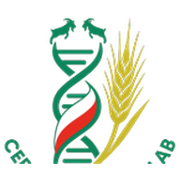
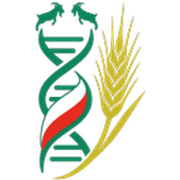
Split CPL vs other publications, text-free header emblem, team tweaks
- Publications: CPL (>=2 team authors) and Other (1 team author)
- Header/footer use the logo emblem with the lettering removed
- English unit name: Cereal Phenomics Team
- Add RG/Scholar profiles; role labels moved below profile links

Claude-Session: https://claude.ai/code/session_01BpixLG9RwF8mf4iQRuxkXw

diff --git a/assets/css/main.css b/assets/css/main.css
@@ -82,7 +82,7 @@ address { font-style: normal; }
 .site-header { background: var(--white); border-bottom: 1px solid var(--line); position: sticky; top: 0; z-index: 50; }
 .site-header__inner { display: flex; align-items: center; justify-content: space-between; gap: 24px; min-height: 80px; }
 .brand { display: flex; align-items: center; gap: 12px; text-decoration: none; min-width: 0; }
-.brand__logo { width: 58px; height: auto; flex-shrink: 0; }
+.brand__logo { width: auto; height: 52px; flex-shrink: 0; }
 .brand__text { display: flex; flex-direction: column; line-height: 1.2; min-width: 0; }
 .brand__name { font-family: var(--font-head); font-weight: 700; font-size: 1.3rem; color: var(--green-900); }
 .brand__sub { font-size: .78rem; color: var(--ink-soft); }
@@ -105,7 +105,7 @@ address { font-style: normal; }
 }
 @media (max-width: 520px) {
   .brand__sub { display: none; }
-  .brand__logo { width: 46px; }
+  .brand__logo { height: 44px; }
   .brand__name { font-size: 1.1rem; }
   .topbar__inst { font-size: .75rem; }
 }
@@ -188,7 +188,7 @@ address { font-style: normal; }
 .person__initials { font-family: var(--font-head); font-size: 3rem; font-weight: 600; color: var(--green-700); opacity: .75; }
 .team-grid--compact .person__initials { font-size: 2.2rem; }
 .person__body { padding: 16px 18px 18px; }
-.person__role { font-size: .72rem; font-weight: 700; letter-spacing: .1em; text-transform: uppercase; color: var(--gold-600); margin: 0 0 4px; }
+.person__role { font-size: .72rem; font-weight: 700; letter-spacing: .1em; text-transform: uppercase; color: var(--gold-600); margin: 12px 0 0; }
 .person__name { font-size: 1.12rem; margin: 0; }
 .team-grid--compact .person__name { font-size: 1rem; }
 .person__degree { display: block; font-family: var(--font-body); font-size: .8rem; font-weight: 500; color: var(--ink-soft); margin-bottom: 2px; }
@@ -215,6 +215,9 @@ address { font-style: normal; }
 /* publications */
 .pubs__year { display: grid; grid-template-columns: 110px 1fr; gap: 24px; padding: 28px 0; border-top: 1px solid var(--line); }
 .pubs__year:first-child { border-top: 0; padding-top: 0; }
+.pubs__group { margin-bottom: .2em; }
+.pubs__group--other { margin-top: 64px; padding-top: 48px; border-top: 1px solid var(--line); }
+.pubs__note { color: var(--ink-soft); margin-bottom: 28px; }
 .pubs__y { font-size: 1.8rem; color: var(--gold-600); margin: 0; }
 .pubs .pubs__year:only-child { display: block; }
 .pub-list { list-style: none; display: grid; gap: 22px; }
@@ -292,7 +295,7 @@ address { font-style: normal; }
 .footer-brand strong { color: #fff; font-family: var(--font-head); font-size: 1.2rem; }
 .footer-brand p { margin: 6px 0 0; }
 .footer-brand__badge { background: #fff; border-radius: 12px; padding: 8px 10px; flex-shrink: 0; }
-.footer-brand__badge img { width: 58px; }
+.footer-brand__badge img { width: auto; height: 52px; }
 .footer-h { font-family: var(--font-body); font-size: .75rem; letter-spacing: .12em; text-transform: uppercase; color: var(--gold-300); margin-bottom: 14px; }
 .footer-links { list-style: none; display: grid; gap: 6px; }
 .footer-links a { text-decoration: none; }

diff --git a/_includes/home.html b/_includes/home.html
@@ -38,7 +38,7 @@
     </div>
     <ul class="stats">
       <li><strong>{{ n_projects }}</strong><span>{{ t.stats_projects }}</span></li>
-      <li>{%- assign npubs = site.data.publications.size %}{% if site.data.publications_auto and site.data.publications_auto.size > 0 %}{% assign npubs = site.data.publications_auto.size %}{% endif %}<strong>{{ npubs }}</strong><span>{{ t.stats_pubs }}</span></li>
+      <li>{%- assign npubs = site.data.publications.size %}{% if site.data.publications_auto and site.data.publications_auto.size > 0 %}{% assign npubs = site.data.publications_auto | where: 'group', 'cpl' %}{% assign npubs = npubs.size %}{% endif %}<strong>{{ npubs }}</strong><span>{{ t.stats_pubs }}</span></li>
       <li><strong>{{ site.data.team.size }}</strong><span>{{ t.stats_people }}</span></li>
       <li><strong>{{ site.data.projects.size }}</strong><span>{{ t.stats_funders }}</span></li>
     </ul>
@@ -89,7 +89,7 @@
       <h2>{{ t.selected_publications }}</h2>
       <a class="more" href="{{ url_pubs.url | relative_url }}">{{ t.all_publications }} →</a>
     </div>
-    {% include pub-list.html limit=3 flat=true %}
+    {% include pub-list.html limit=3 flat=true group='cpl' %}
   </div>
 </section>
 

diff --git a/_includes/publications-page.html b/_includes/publications-page.html
@@ -1,0 +1,20 @@
+{%- assign t = site.data.i18n[page.lang] -%}
+{%- assign auto = site.data.publications_auto -%}
+<section class="section">
+  <div class="wrap">
+  {%- if auto and auto.size > 0 %}
+    <h2 class="pubs__group">{{ t.pubs_cpl }}</h2>
+    <p class="pubs__note">{{ t.pubs_cpl_note }}</p>
+    {% include pub-list.html group='cpl' %}
+    {%- assign other = auto | where: 'group', 'other' -%}
+    {%- if other.size > 0 %}
+    <h2 class="pubs__group pubs__group--other">{{ t.pubs_other }}</h2>
+    <p class="pubs__note">{{ t.pubs_other_note }}</p>
+    {% include pub-list.html group='other' %}
+    {%- endif %}
+  {%- else %}
+    {% include pub-list.html %}
+  {%- endif %}
+  {%- if site.links.scopus != "" %}<p class="center"><a class="btn btn--green" href="{{ site.links.scopus }}" target="_blank" rel="noopener">{{ t.more_in_scopus }}</a></p>{% endif %}
+  </div>
+</section>

diff --git a/_includes/team-grid.html b/_includes/team-grid.html
@@ -13,7 +13,6 @@
       {%- endif %}
     </div>
     <div class="person__body">
-      {%- if role != "" %}<p class="person__role">{{ role }}</p>{% endif %}
       <h3 class="person__name">{% if p.degree != "" %}<span class="person__degree">{{ p.degree }}</span> {% endif %}{{ p.name }}</h3>
       {%- unless include.compact %}
       {%- if p.email and p.email != "" %}<p class="person__email"><a href="mailto:{{ p.email }}">{{ p.email }}</a></p>{% endif %}
@@ -24,6 +23,7 @@
         {%- if p.scholar and p.scholar != "" %}<li><a class="prof prof--gs" href="{{ p.scholar }}" target="_blank" rel="noopener" title="Google Scholar">Scholar</a></li>{% endif %}
       </ul>
       {%- endif %}
+      {%- if role != "" %}<p class="person__role">{{ role }}</p>{% endif %}
       {%- endunless %}
     </div>
   </li>

diff --git a/_includes/pub-list.html b/_includes/pub-list.html
@@ -1,5 +1,5 @@
 {%- assign pubs = site.data.publications -%}
-{%- if site.data.publications_auto and site.data.publications_auto.size > 0 %}{% assign pubs = site.data.publications_auto %}{% endif -%}
+{%- if site.data.publications_auto and site.data.publications_auto.size > 0 %}{% assign pubs = site.data.publications_auto %}{% if include.group %}{% assign pubs = pubs | where: 'group', include.group %}{% endif %}{% endif -%}
 {%- if include.limit %}{% assign pubs = pubs | slice: 0, include.limit %}{% endif -%}
 {%- assign groups = pubs | group_by: "year" -%}
 <div class="pubs">

diff --git a/_includes/header.html b/_includes/header.html
@@ -17,7 +17,7 @@
 <header class="site-header">
   <div class="wrap site-header__inner">
     <a class="brand" href="{{ home.url | relative_url }}">
-      <img class="brand__logo" src="{{ '/assets/img/emblem.png' | relative_url }}" alt="" width="58" height="48">
+      <img class="brand__logo" src="{{ '/assets/img/emblem.png' | relative_url }}" alt="" width="35" height="52">
       <span class="brand__text">
         <span class="brand__name">Cereal Phenomics Lab</span>
         <span class="brand__sub">{{ t.team_name }}</span>

diff --git a/_includes/footer.html b/_includes/footer.html
@@ -5,7 +5,7 @@
   <div class="wrap site-footer__grid">
     <div>
       <div class="footer-brand">
-        <span class="footer-brand__badge"><img src="{{ '/assets/img/logo.png' | relative_url }}" alt="Cereal Phenomics Lab" width="74" height="100"></span>
+        <span class="footer-brand__badge"><img src="{{ '/assets/img/emblem.png' | relative_url }}" alt="" width="35" height="52"></span>
         <div>
           <strong>Cereal Phenomics Lab</strong>
           <p>{{ t.department }}<br>{{ t.institute_full }}</p>

diff --git a/en/publications.html b/en/publications.html
@@ -6,4 +6,4 @@ permalink: /en/publications/
 title: "Publications"
 lead: "[short page description]"
 ---
-<section class="section"><div class="wrap">{% include pub-list.html %}{% if site.links.scopus != "" %}<p class="center"><a class="btn btn--green" href="{{ site.links.scopus }}" target="_blank" rel="noopener">{{ site.data.i18n[page.lang].more_in_scopus }}</a></p>{% endif %}</div></section>
+{% include publications-page.html %}

diff --git a/publikacje.html b/publikacje.html
@@ -6,4 +6,4 @@ permalink: /publikacje/
 title: "Publikacje"
 lead: "[krótki opis podstrony]"
 ---
-<section class="section"><div class="wrap">{% include pub-list.html %}{% if site.links.scopus != "" %}<p class="center"><a class="btn btn--green" href="{{ site.links.scopus }}" target="_blank" rel="noopener">{{ site.data.i18n[page.lang].more_in_scopus }}</a></p>{% endif %}</div></section>
+{% include publications-page.html %}

diff --git a/tools/fetch_publications.py b/tools/fetch_publications.py
@@ -217,9 +217,13 @@ def main():
     pubs = []
     for w in merged.values():
         cr = meta.get(w["doi"]) if w["doi"] else None
+        authors_html = mark_team((cr or {}).get("authors") or [], members)
+        n_team = max(authors_html.count("<strong>"), len(w["orcids"]))
         item = {
+            # cpl = co najmniej 2 członków zespołu wśród autorów; other = 1
+            "group": "cpl" if n_team >= 2 else "other",
             "title": (cr or {}).get("title") or w["title"],
-            "authors_html": mark_team((cr or {}).get("authors") or [], members),
+            "authors_html": authors_html,
             "journal": (cr or {}).get("journal") or w["journal"] or "",
             "details": (cr or {}).get("details") or "",
             "year": (cr or {}).get("year") or w["year"],
@@ -237,7 +241,7 @@ def main():
     with open(OUT, "w", encoding="utf-8") as f:
         json.dump(pubs, f, ensure_ascii=False, indent=1)
     for p in pubs:
-        print(f"  {p['year']} | {p['journal'][:40]:40} | {'DOI' if p['doi'] else '---'} | {p['title'][:90]}")
+        print(f"  {p['group']:5} | {p['year']} | {p['journal'][:40]:40} | {'DOI' if p['doi'] else '---'} | {p['title'][:90]}")
     print(f"Zapisano {len(pubs)} publikacji do {os.path.relpath(OUT, ROOT)}"
           + (f" (nieudane ORCID: {', '.join(failed)})" if failed else ""))
     return 0

diff --git a/BRAKUJACE-INFORMACJE.md b/BRAKUJACE-INFORMACJE.md
@@ -8,7 +8,7 @@ numery i kierownicy grantów, daty, tytuły publikacji i projektów oraz dane ko
 ## Teksty (placeholdery)
 1. **Strona główna i „Badania”** (`_data/content.yml`, PL i EN): hasło główne, opis zespołu (2 akapity), 6 obszarów badawczych, metody, najważniejsze wyniki, słowa kluczowe.
 2. **Opisy podstron** pod nagłówkami (pole `lead:` w plikach `badania.html`, `zespol.html` itd. oraz `en/*.html`).
-3. **Angielska nazwa zakładu**: przyjąłem „Department of Cereal Phenomics” (do potwierdzenia) (`_data/i18n.yml`, `_config.yml`).
+3. **Angielska nazwa**: „Cereal Phenomics Team” (ustalone) (`_data/i18n.yml`, `_config.yml`).
 4. **Zaproszenie do współpracy i tekst w stopce** (`_data/i18n.yml` → `collab_title`, `collab_text`, `footer_note`).
 5. **Aktualności**: 3 puste wpisy (`_data/news.yml`).
 6. **Polskie tytuły wszystkich projektów** (`_data/projects.yml` → `title_pl`).
@@ -23,7 +23,7 @@ numery i kierownicy grantów, daty, tytuły publikacji i projektów oraz dane ko
 
 ## Zespół (`_data/team.yml`)
 13. Stanowiska: K. Mikołajczak, P. Ogrodowicz, M. Kempa, S. Szczepański, R. Holewińska.
-14. Indywidualne e-maile. Brakujące profile (`_data/team.yml`): ResearchGate – S. Szczepański, M. Michałek, D. Maryniak; Google Scholar – wszyscy poza K. Mikołajczakiem. Linki RG znalezione automatycznie (A. Kuczyńska, K. Mikołajczak, P. Ogrodowicz, M. Kempa) trzeba sprawdzić.
+14. Indywidualne e-maile. Brakujące profile (`_data/team.yml`): ResearchGate – D. Maryniak; Google Scholar – wszyscy poza K. Mikołajczakiem i S. Szczepańskim. Linki RG znalezione automatycznie (A. Kuczyńska, K. Mikołajczak, P. Ogrodowicz, M. Kempa) trzeba sprawdzić.
 15. Czy dodać A. Aniołę i R. Trzeciak (są na zdjęciu zespołu w serwisie IGR)?
 
 ## Kontakt i inne
